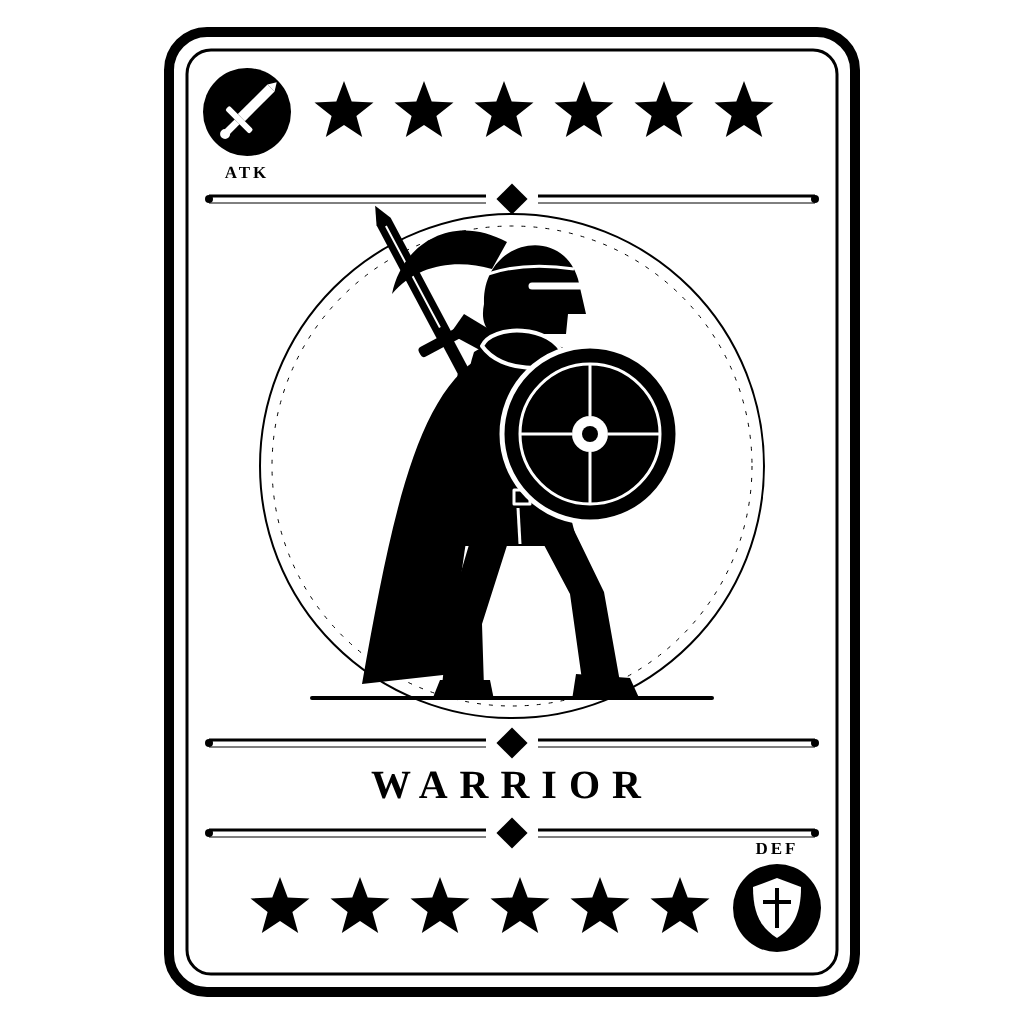
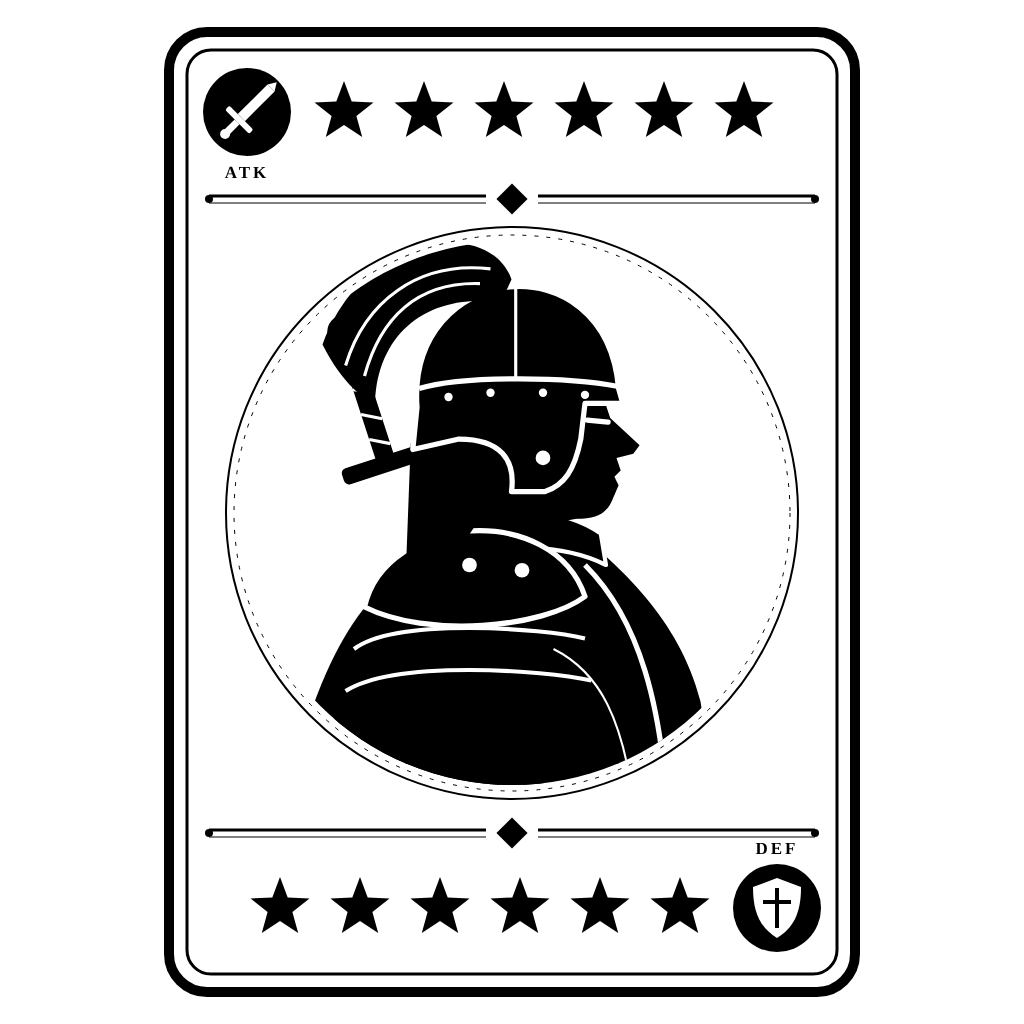
Change warrior card art to a side-profile bust and drop the class name
Claude-Session: https://claude.ai/code/session_01H4vyTykaPEoExYCq8AE87o

diff --git a/doc/gen_card.py b/doc/gen_card.py
@@ -42,57 +42,50 @@ def divider(y):
     return "".join(out)
 s.append(divider(196))
 
-# ---- art ----
-cx,cy=512,466
-s.append(f'<circle cx="{cx}" cy="{cy}" r="252" fill="none" stroke="{B}" stroke-width="2"/>')
-s.append(f'<circle cx="{cx}" cy="{cy}" r="240" fill="none" stroke="{B}" stroke-width="1" stroke-dasharray="4 8"/>')
-s.append(f'<line x1="{cx-200}" y1="{cy+232}" x2="{cx+200}" y2="{cy+232}" stroke="{B}" stroke-width="4" stroke-linecap="round"/>')
-g=f'<g transform="translate({cx},{cy+8})" fill="{B}" stroke-linejoin="round">'
+# ---- art: warrior bust, side profile facing right ----
+cx,cy,R=512,513,272
+s.append(f'<defs><clipPath id="art"><circle cx="{cx}" cy="{cy}" r="{R}"/></clipPath></defs>')
+s.append(f'<circle cx="{cx}" cy="{cy}" r="{R+14}" fill="none" stroke="{B}" stroke-width="2"/>')
+s.append(f'<circle cx="{cx}" cy="{cy}" r="{R+6}" fill="none" stroke="{B}" stroke-width="1" stroke-dasharray="4 8"/>')
 fig=[
- # cape
- '<path d="M-30,-118 C-95,-80 -120,40 -150,210 L-60,200 C-55,110 -40,10 -10,-100 Z"/>',
- # sword (far hand, raised behind)
- '<g transform="translate(-58,-120) rotate(-28)">'
-   '<polygon points="-8,-20 8,-20 8,-150 0,-168 -8,-150"/>'
-   '<line x1="0" y1="-30" x2="0" y2="-145" stroke="#fff" stroke-width="2"/>'
-   '<rect x="-30" y="-22" width="60" height="11" rx="4"/><rect x="-6" y="-12" width="12" height="34"/><circle cx="0" cy="26" r="9"/></g>',
- # far arm
- '<path d="M-10,-112 L-62,-140 L-48,-160 L5,-128 Z"/>',
- # legs
- '<path d="M-28,20 L-62,135 L-70,212 L-28,214 L-30,150 L5,40 Z"/>',
- '<path d="M-72,206 L-22,206 L-18,226 L-80,226 Z"/>',
- '<path d="M5,20 L58,120 L70,206 L108,208 L92,118 L42,15 Z"/>',
- '<path d="M64,200 L118,204 L128,226 L60,226 Z"/>',
+ # sword grip over the back
+ '<g transform="translate(-120,-30) rotate(-18)"><rect x="-9" y="-150" width="18" height="120" rx="4"/>'
+   '<rect x="-44" y="-36" width="88" height="16" rx="5"/><circle cx="0" cy="-160" r="16"/>'
+   '<path d="M-9,-130 L9,-120 M-9,-105 L9,-95 M-9,-80 L9,-70 M-9,-55 L9,-45" stroke="#fff" stroke-width="3"/></g>',
+ # cape / back
+ '<path d="M-60,20 C-140,40 -200,120 -230,300 L40,300 Z"/>',
  # torso
- '<path d="M-38,-122 C-10,-140 45,-138 62,-118 C78,-70 60,-20 50,25 L-40,25 C-48,-20 -52,-80 -38,-122 Z"/>',
- # belt
- '<rect x="-46" y="14" width="102" height="18" rx="3"/>',
- '<rect x="2" y="16" width="16" height="14" fill="none" stroke="#fff" stroke-width="3"/>',
- # tassets
- '<path d="M-44,32 L56,32 L66,72 L-50,72 Z"/>',
- '<line x1="6" y1="34" x2="8" y2="70" stroke="#fff" stroke-width="3"/>',
- # neck & helmet
- '<rect x="-2" y="-152" width="34" height="34"/>',
- '<path d="M-28,-170 C-30,-235 50,-250 66,-195 L74,-160 L56,-160 L54,-140 L-20,-140 C-30,-148 -30,-160 -28,-170 Z"/>',
+ '<path d="M-60,10 L55,10 C90,40 150,90 170,170 L190,300 L-200,300 C-190,160 -130,60 -60,10 Z"/>',
+ # chest plate lines
+ '<path d="M60,40 C110,90 135,170 140,300" stroke="#fff" stroke-width="5" fill="none"/>',
+ '<path d="M30,120 C70,140 100,180 110,300" stroke="#fff" stroke-width="2" fill="none"/>',
+ # neck
+ '<path d="M-48,-40 L46,-30 L58,20 L-58,20 Z"/>',
+ # gorget
+ '<path d="M-70,0 C-20,-20 40,-14 75,10 L80,40 C40,20 -20,18 -78,36 Z" stroke="#fff" stroke-width="4"/>',
+ # pauldron (layered)
+ '<path d="M-150,80 C-130,-10 30,-20 60,70 C20,100 -90,110 -150,80 Z" stroke="#fff" stroke-width="5"/>',
+ '<path d="M-160,120 C-120,90 20,100 60,110" stroke="#fff" stroke-width="4" fill="none"/>',
+ '<path d="M-168,160 C-120,130 20,140 66,150" stroke="#fff" stroke-width="4" fill="none"/>',
+ '<circle cx="-50" cy="40" r="7" fill="#fff"/><circle cx="0" cy="45" r="7" fill="#fff"/>',
+ # back of head / neck guard
+ '<path d="M-106,-76 L-40,-84 L-30,-20 L-56,20 L-110,30 Z"/>',
+ # face profile
+ '<path d="M-30,-150 L70,-150 L78,-118 L84,-100 L112,-74 L106,-66 L90,-62 L94,-50 L88,-44 L92,-36 '
+   'L86,-22 C80,-8 70,-4 52,-4 L40,-2 L-48,-2 Z"/>',
+ '<path d="M62,-98 L82,-96" stroke="#fff" stroke-width="5" stroke-linecap="round"/>',
+ # helmet dome with brim + cheek guard
+ '<path d="M-100,-110 C-110,-250 80,-270 92,-128 L96,-114 L60,-114 L56,-80 C50,-50 40,-36 22,-30 '
+   'L-10,-30 C-6,-60 -20,-80 -60,-80 L-104,-70 Z" stroke="#fff" stroke-width="5"/>',
+ '<path d="M-98,-128 C-60,-140 40,-140 92,-130" stroke="#fff" stroke-width="5" fill="none"/>',
+ '<path d="M-6,-226 L-6,-136" stroke="#fff" stroke-width="3"/>',
+ '<circle cx="-70" cy="-120" r="4" fill="#fff"/><circle cx="-30" cy="-124" r="4" fill="#fff"/><circle cx="20" cy="-124" r="4" fill="#fff"/><circle cx="60" cy="-122" r="4" fill="#fff"/>',
+ '<circle cx="20" cy="-62" r="7" fill="#fff"/>',
  # plume
- '<path d="M-5,-232 C-60,-262 -110,-230 -120,-180 C-95,-210 -55,-215 -20,-205 Z"/>',
- # helmet details (white)
- '<path d="M20,-188 L68,-188" stroke="#fff" stroke-width="7" stroke-linecap="round"/>',
- '<path d="M-24,-200 C0,-208 30,-210 62,-205" stroke="#fff" stroke-width="3" fill="none"/>',
- 
- # shoulder pauldron
- '<path d="M-30,-128 C-20,-150 40,-150 52,-118 C40,-102 -10,-100 -30,-128 Z" stroke="#fff" stroke-width="4"/>',
- # shield on near arm (front)
- '<circle cx="78" cy="-40" r="88" stroke="#fff" stroke-width="5"/>',
- '<circle cx="78" cy="-40" r="70" fill="none" stroke="#fff" stroke-width="3"/>',
- '<circle cx="78" cy="-40" r="18" fill="#fff"/><circle cx="78" cy="-40" r="8"/>',
- '<path d="M78,-110 L78,-58 M78,-22 L78,30 M8,-40 L60,-40 M96,-40 L148,-40" stroke="#fff" stroke-width="3"/>',
+ '<path d="M-10,-232 C-30,-290 -150,-280 -190,-170 C-170,-130 -150,-120 -140,-110 C-140,-180 -90,-220 -20,-210 Z"/>',
+ '<path d="M-30,-242 C-100,-250 -150,-210 -168,-150 M-40,-228 C-100,-230 -135,-195 -150,-140" stroke="#fff" stroke-width="3" fill="none"/>',
 ]
-s.append(g+"".join(fig)+'</g>')
-
-# name plate
-s.append(divider(740))
-s.append(f'<text x="512" y="798" font-family="Georgia,serif" font-size="40" font-weight="bold" text-anchor="middle" letter-spacing="12">WARRIOR</text>')
+s.append(f'<g clip-path="url(#art)"><g transform="translate({cx+10},{cy+10}) scale(1.05)" fill="{B}" stroke-linejoin="round">'+"".join(fig)+'</g></g>')
 
 # ---- bottom band: defense ----
 s.append(divider(830))
